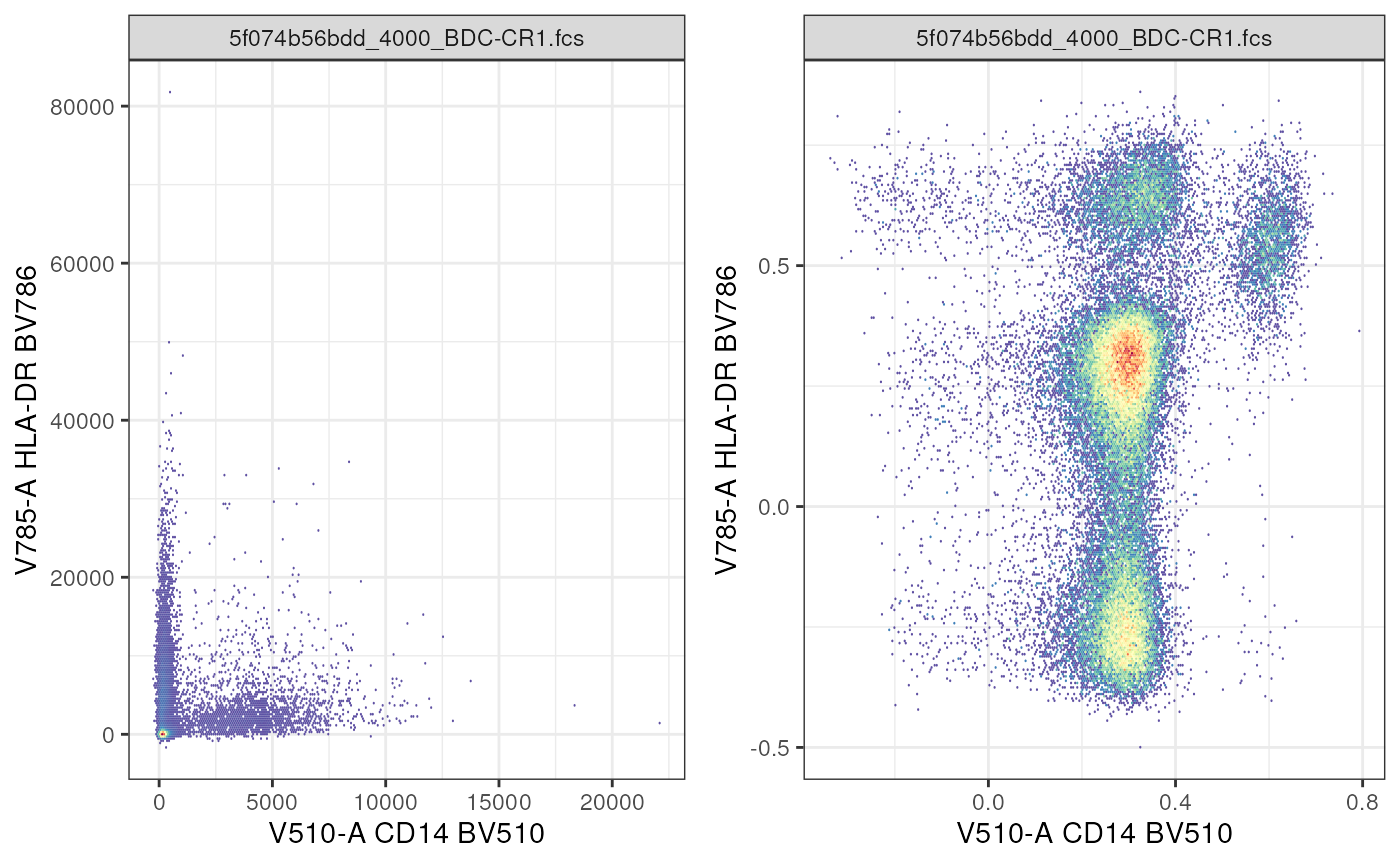
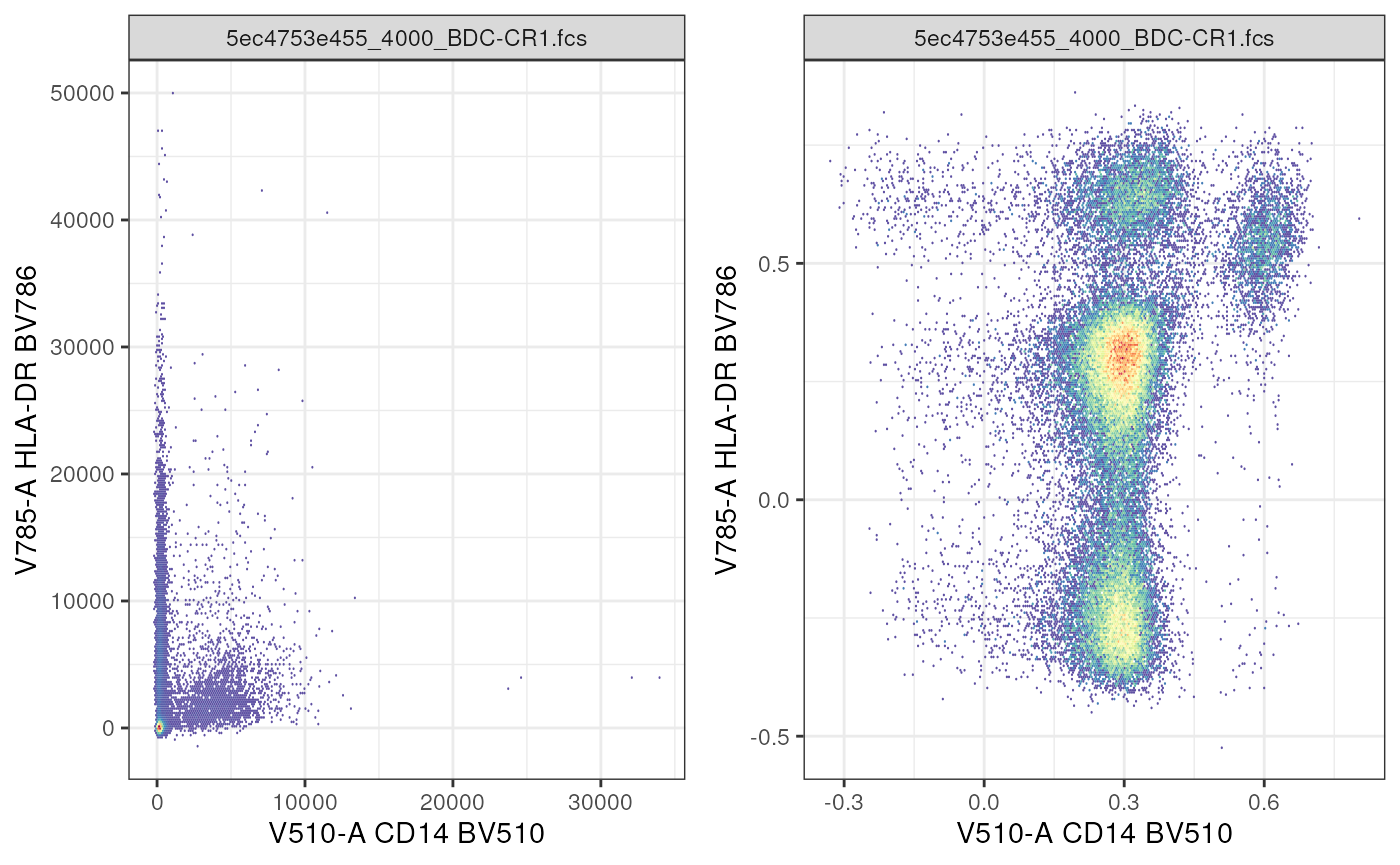
Deploying to gh-pages from @ OzetteTech/cytoverse-bioc-2023@7e504ed01d8b8297947bc9052f715f6d6e6d377c 🚀

diff --git a/articles/1_Import_fcs.html b/articles/1_Import_fcs.html
@@ -171,7 +171,7 @@ examine it with
 <span></span>
 <span><span class="co"># a cytoframe object</span></span>
 <span><span class="va">cf</span></span></code></pre></div>
-<pre><code><span><span class="co">## cytoframe object '5f05b485528_4000_TNK-CR1.fcs'</span></span>
+<pre><code><span><span class="co">## cytoframe object '5ec208198b7_4000_TNK-CR1.fcs'</span></span>
 <span><span class="co">## with 102015 cells and 33 observables:</span></span>
 <span><span class="co">##                   name            desc     range  minRange  maxRange</span></span>
 <span><span class="co">## $P1              FSC-A              NA    262143    0.0000    262143</span></span>
@@ -384,7 +384,7 @@ expression matrix <code>exprs(cf)</code> as well as the columns of the
 <code class="sourceCode R"><span><span class="co"># subset cytorame by column</span></span>
 <span><span class="va">s_cf</span> <span class="op">&lt;-</span> <span class="va">cf</span><span class="op">[</span>,<span class="va">marker_cd4</span><span class="op">[</span>,<span class="st">"name"</span><span class="op">]</span><span class="op">]</span></span>
 <span><span class="va">s_cf</span></span></code></pre></div>
-<pre><code><span><span class="co">## cytoframe object '5f05b485528_4000_TNK-CR1.fcs'</span></span>
+<pre><code><span><span class="co">## cytoframe object '5ec208198b7_4000_TNK-CR1.fcs'</span></span>
 <span><span class="co">## with 102015 cells and 1 observables:</span></span>
 <span><span class="co">##        name       desc     range  minRange  maxRange</span></span>
 <span><span class="co">## $P23 U785-A CD4 BUV805    262143  -80.5002    262143</span></span>
@@ -395,7 +395,7 @@ expression matrix <code>exprs(cf)</code> as well as the columns of the
 <code class="sourceCode R"><span><span class="co"># subset cytoframe by row</span></span>
 <span><span class="va">s2_cf</span> <span class="op">&lt;-</span> <span class="va">cf</span><span class="op">[</span><span class="fl">1</span><span class="op">:</span><span class="fl">100</span>,<span class="op">]</span></span>
 <span><span class="va">s2_cf</span></span></code></pre></div>
-<pre><code><span><span class="co">## cytoframe object '5f05b485528_4000_TNK-CR1.fcs'</span></span>
+<pre><code><span><span class="co">## cytoframe object '5ec208198b7_4000_TNK-CR1.fcs'</span></span>
 <span><span class="co">## with 100 cells and 33 observables:</span></span>
 <span><span class="co">##                   name            desc     range  minRange  maxRange</span></span>
 <span><span class="co">## $P1              FSC-A              NA    262143    0.0000    262143</span></span>
@@ -477,7 +477,7 @@ these operations provide a new view of the data without creating a
 <code class="sourceCode R"><span><span class="co"># manipulating expression values</span></span>
 <span><span class="co"># notice the data range </span></span>
 <span><span class="va">s_cf</span></span></code></pre></div>
-<pre><code><span><span class="co">## cytoframe object '5f05b485528_4000_TNK-CR1.fcs'</span></span>
+<pre><code><span><span class="co">## cytoframe object '5ec208198b7_4000_TNK-CR1.fcs'</span></span>
 <span><span class="co">## with 150 cells and 33 observables:</span></span>
 <span><span class="co">##                   name            desc     range  minRange  maxRange</span></span>
 <span><span class="co">## $P1              FSC-A              NA    262143    0.0000    262143</span></span>
@@ -502,7 +502,7 @@ these operations provide a new view of the data without creating a
 <span></span>
 <span><span class="co"># notice the data range after transformation</span></span>
 <span><span class="va">s_cf</span></span></code></pre></div>
-<pre><code><span><span class="co">## cytoframe object '5f05b485528_4000_TNK-CR1.fcs'</span></span>
+<pre><code><span><span class="co">## cytoframe object '5ec208198b7_4000_TNK-CR1.fcs'</span></span>
 <span><span class="co">## with 150 cells and 33 observables:</span></span>
 <span><span class="co">##                   name            desc     range  minRange  maxRange</span></span>
 <span><span class="co">## $P1              FSC-A              NA    262143    0.0000    262143</span></span>
@@ -580,12 +580,12 @@ the <code>sampleNames</code> of the <code>cytoset</code>.</p>
 <code class="sourceCode R"><span><span class="co"># prior to providing metadata</span></span>
 <span><span class="fu"><a href="https://rdrr.io/pkg/Biobase/man/phenoData.html" class="external-link">pData</a></span><span class="op">(</span><span class="va">cs</span><span class="op">)</span></span></code></pre></div>
 <pre><code><span><span class="co">##                                                      name</span></span>
-<span><span class="co">## 5f074b56bdd_4000_BDC-CR1.fcs 5f074b56bdd_4000_BDC-CR1.fcs</span></span>
-<span><span class="co">## 5f05b485528_4000_TNK-CR1.fcs 5f05b485528_4000_TNK-CR1.fcs</span></span>
-<span><span class="co">## 5f061d76d7e_4001_BDC-CR1.fcs 5f061d76d7e_4001_BDC-CR1.fcs</span></span>
-<span><span class="co">## 5f029faf892_4001_TNK-CR1.fcs 5f029faf892_4001_TNK-CR1.fcs</span></span>
-<span><span class="co">## 5f04f15d349_4002_TNK-CR1.fcs 5f04f15d349_4002_TNK-CR1.fcs</span></span>
-<span><span class="co">## 5f059ae0d61_4003_TNK-CR1.fcs 5f059ae0d61_4003_TNK-CR1.fcs</span></span></code></pre>
+<span><span class="co">## 5ec4753e455_4000_BDC-CR1.fcs 5ec4753e455_4000_BDC-CR1.fcs</span></span>
+<span><span class="co">## 5ec208198b7_4000_TNK-CR1.fcs 5ec208198b7_4000_TNK-CR1.fcs</span></span>
+<span><span class="co">## 5ec425ee514_4001_BDC-CR1.fcs 5ec425ee514_4001_BDC-CR1.fcs</span></span>
+<span><span class="co">## 5ec66f8911a_4001_TNK-CR1.fcs 5ec66f8911a_4001_TNK-CR1.fcs</span></span>
+<span><span class="co">## 5ecebc361f_4002_TNK-CR1.fcs   5ecebc361f_4002_TNK-CR1.fcs</span></span>
+<span><span class="co">## 5ec44ba4946_4003_TNK-CR1.fcs 5ec44ba4946_4003_TNK-CR1.fcs</span></span></code></pre>
 <div class="sourceCode" id="cb39"><pre class="downlit sourceCode r">
 <code class="sourceCode R"><span><span class="co"># create metadata</span></span>
 <span><span class="va">metadata</span> <span class="op">&lt;-</span> <span class="fu"><a href="https://rdrr.io/r/base/data.frame.html" class="external-link">data.frame</a></span><span class="op">(</span>Treatment <span class="op">=</span> <span class="fu"><a href="https://rdrr.io/r/base/sample.html" class="external-link">sample</a></span><span class="op">(</span><span class="fu"><a href="https://rdrr.io/r/base/c.html" class="external-link">c</a></span><span class="op">(</span><span class="st">"Untreated"</span>,<span class="st">"Treated"</span><span class="op">)</span>,<span class="fu"><a href="https://rdrr.io/r/base/length.html" class="external-link">length</a></span><span class="op">(</span><span class="va">cs</span><span class="op">)</span>, replace <span class="op">=</span> <span class="cn">TRUE</span><span class="op">)</span>,</span>
@@ -603,12 +603,12 @@ the <code>sampleNames</code> of the <code>cytoset</code>.</p>
 <span><span class="fu"><a href="https://rdrr.io/pkg/Biobase/man/phenoData.html" class="external-link">pData</a></span><span class="op">(</span><span class="va">cs</span><span class="op">)</span> <span class="op">&lt;-</span> <span class="va">metadata</span></span>
 <span><span class="fu"><a href="https://rdrr.io/pkg/Biobase/man/phenoData.html" class="external-link">pData</a></span><span class="op">(</span><span class="va">cs</span><span class="op">)</span></span></code></pre></div>
 <pre><code><span><span class="co">##                              Treatment         panel</span></span>
-<span><span class="co">## 5f074b56bdd_4000_BDC-CR1.fcs Untreated Myeloid Panel</span></span>
-<span><span class="co">## 5f05b485528_4000_TNK-CR1.fcs   Treated  T Cell Panel</span></span>
-<span><span class="co">## 5f061d76d7e_4001_BDC-CR1.fcs   Treated Myeloid Panel</span></span>
-<span><span class="co">## 5f029faf892_4001_TNK-CR1.fcs Untreated  T Cell Panel</span></span>
-<span><span class="co">## 5f04f15d349_4002_TNK-CR1.fcs   Treated  T Cell Panel</span></span>
-<span><span class="co">## 5f059ae0d61_4003_TNK-CR1.fcs Untreated  T Cell Panel</span></span></code></pre>
+<span><span class="co">## 5ec4753e455_4000_BDC-CR1.fcs Untreated Myeloid Panel</span></span>
+<span><span class="co">## 5ec208198b7_4000_TNK-CR1.fcs Untreated  T Cell Panel</span></span>
+<span><span class="co">## 5ec425ee514_4001_BDC-CR1.fcs   Treated Myeloid Panel</span></span>
+<span><span class="co">## 5ec66f8911a_4001_TNK-CR1.fcs   Treated  T Cell Panel</span></span>
+<span><span class="co">## 5ecebc361f_4002_TNK-CR1.fcs  Untreated  T Cell Panel</span></span>
+<span><span class="co">## 5ec44ba4946_4003_TNK-CR1.fcs Untreated  T Cell Panel</span></span></code></pre>
 <p>The benefit of having metadata is that we can use many of the
 sub-setting operations in a metadata specific manner.</p>
 <p>This is much more convenient than going back and forth between the
@@ -625,8 +625,8 @@ full set of files.</p>
 <div class="sourceCode" id="cb46"><pre class="downlit sourceCode r">
 <code class="sourceCode R"><span><span class="fu"><a href="https://rdrr.io/pkg/Biobase/man/phenoData.html" class="external-link">pData</a></span><span class="op">(</span><span class="va">cs_myeloid</span><span class="op">)</span></span></code></pre></div>
 <pre><code><span><span class="co">##                              Treatment         panel</span></span>
-<span><span class="co">## 5f074b56bdd_4000_BDC-CR1.fcs Untreated Myeloid Panel</span></span>
-<span><span class="co">## 5f061d76d7e_4001_BDC-CR1.fcs   Treated Myeloid Panel</span></span></code></pre>
+<span><span class="co">## 5ec4753e455_4000_BDC-CR1.fcs Untreated Myeloid Panel</span></span>
+<span><span class="co">## 5ec425ee514_4001_BDC-CR1.fcs   Treated Myeloid Panel</span></span></code></pre>
 <p>Many of the sub-setting operation for <code>cytoframe</code> are also
 applicable for <code>cytoset</code>. Similar to <code>cytoframe</code>
 sub-setting operations only create a new “view” of the data. For a
@@ -734,12 +734,12 @@ however, is that the output results in a single array like object.</p>
 <span><span class="va">get_all_nrow</span> <span class="op">&lt;-</span> <span class="fu"><a href="https://rdrr.io/pkg/flowCore/man/fsApply.html" class="external-link">fsApply</a></span><span class="op">(</span><span class="va">cs</span>, <span class="va">nrow</span><span class="op">)</span></span>
 <span><span class="va">get_all_nrow</span></span></code></pre></div>
 <pre><code><span><span class="co">##                                [,1]</span></span>
-<span><span class="co">## 5f074b56bdd_4000_BDC-CR1.fcs 912254</span></span>
-<span><span class="co">## 5f05b485528_4000_TNK-CR1.fcs 102015</span></span>
-<span><span class="co">## 5f061d76d7e_4001_BDC-CR1.fcs 924474</span></span>
-<span><span class="co">## 5f029faf892_4001_TNK-CR1.fcs  92703</span></span>
-<span><span class="co">## 5f04f15d349_4002_TNK-CR1.fcs 372224</span></span>
-<span><span class="co">## 5f059ae0d61_4003_TNK-CR1.fcs 146150</span></span></code></pre>
+<span><span class="co">## 5ec4753e455_4000_BDC-CR1.fcs 912254</span></span>
+<span><span class="co">## 5ec208198b7_4000_TNK-CR1.fcs 102015</span></span>
+<span><span class="co">## 5ec425ee514_4001_BDC-CR1.fcs 924474</span></span>
+<span><span class="co">## 5ec66f8911a_4001_TNK-CR1.fcs  92703</span></span>
+<span><span class="co">## 5ecebc361f_4002_TNK-CR1.fcs  372224</span></span>
+<span><span class="co">## 5ec44ba4946_4003_TNK-CR1.fcs 146150</span></span></code></pre>
 <div class="section level3">
 <h3 id="exercises">Exercises<a class="anchor" aria-label="anchor" href="#exercises"></a>
 </h3>
